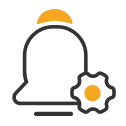
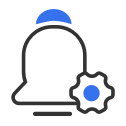
-

diff --git a/src/components/classCardSystemBackstage/js/classCardHomePageDoor.jsx b/src/components/classCardSystemBackstage/js/classCardHomePageDoor.jsx
@@ -392,7 +392,7 @@ export default class classCardHomePageDoor extends React.Component {
                     <div className="teacher-item">
                         <h1>其它</h1>
                         <ul className="classCardHomePageDoor my_flex">
-                            <li onClick={this.turnToRingManage}><i className="icon icon_time"></i>
+                            <li onClick={this.turnToRingManage}><i className="icon icon_BraceletManagement"></i>
                                 <div>手环管理</div>
                             </li>
 

diff --git a/src/components/classCardSystemBackstage/css/classCardHomePageDoor.less b/src/components/classCardSystemBackstage/css/classCardHomePageDoor.less
@@ -133,8 +133,9 @@
     background: url("../imgs/icon_refresh.png") no-repeat center center;
     background-size: contain;
   }
+  /*手环管理*/
   .icon_BraceletManagement{
-    background: url("../imgs/icon_time.png") no-repeat center center;
+    background: url("../imgs/icon_BraceletManagement.png") no-repeat center center;
     background-size: contain;
   }
 }
